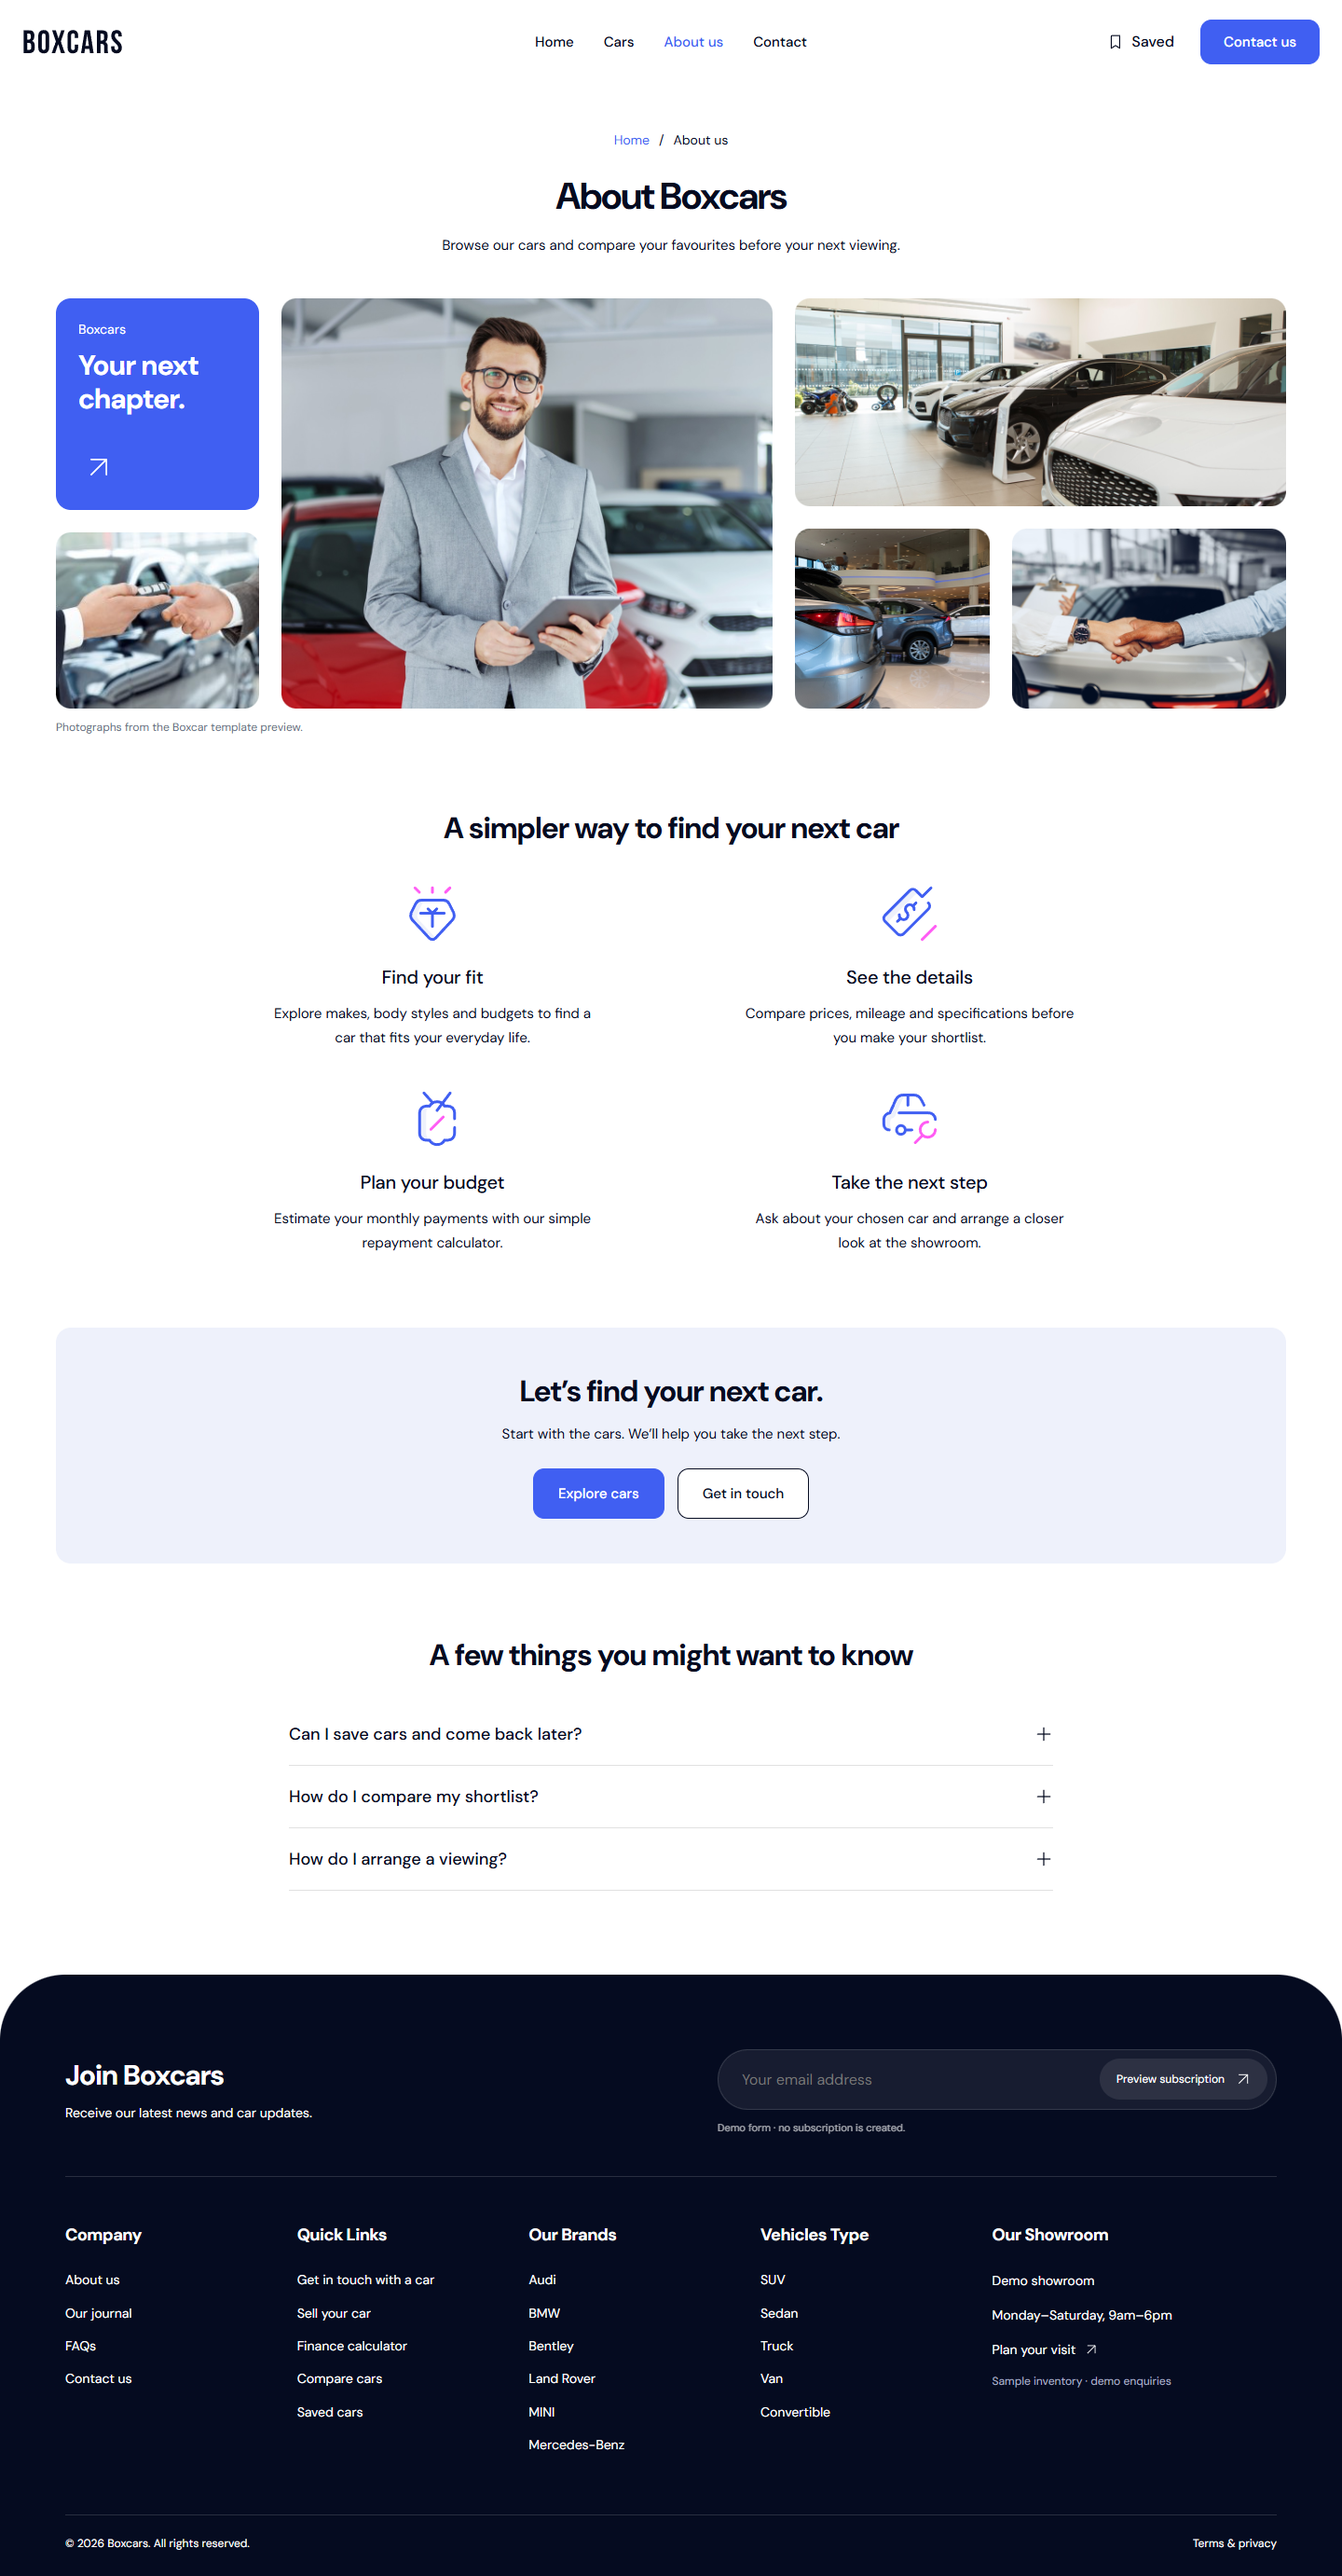
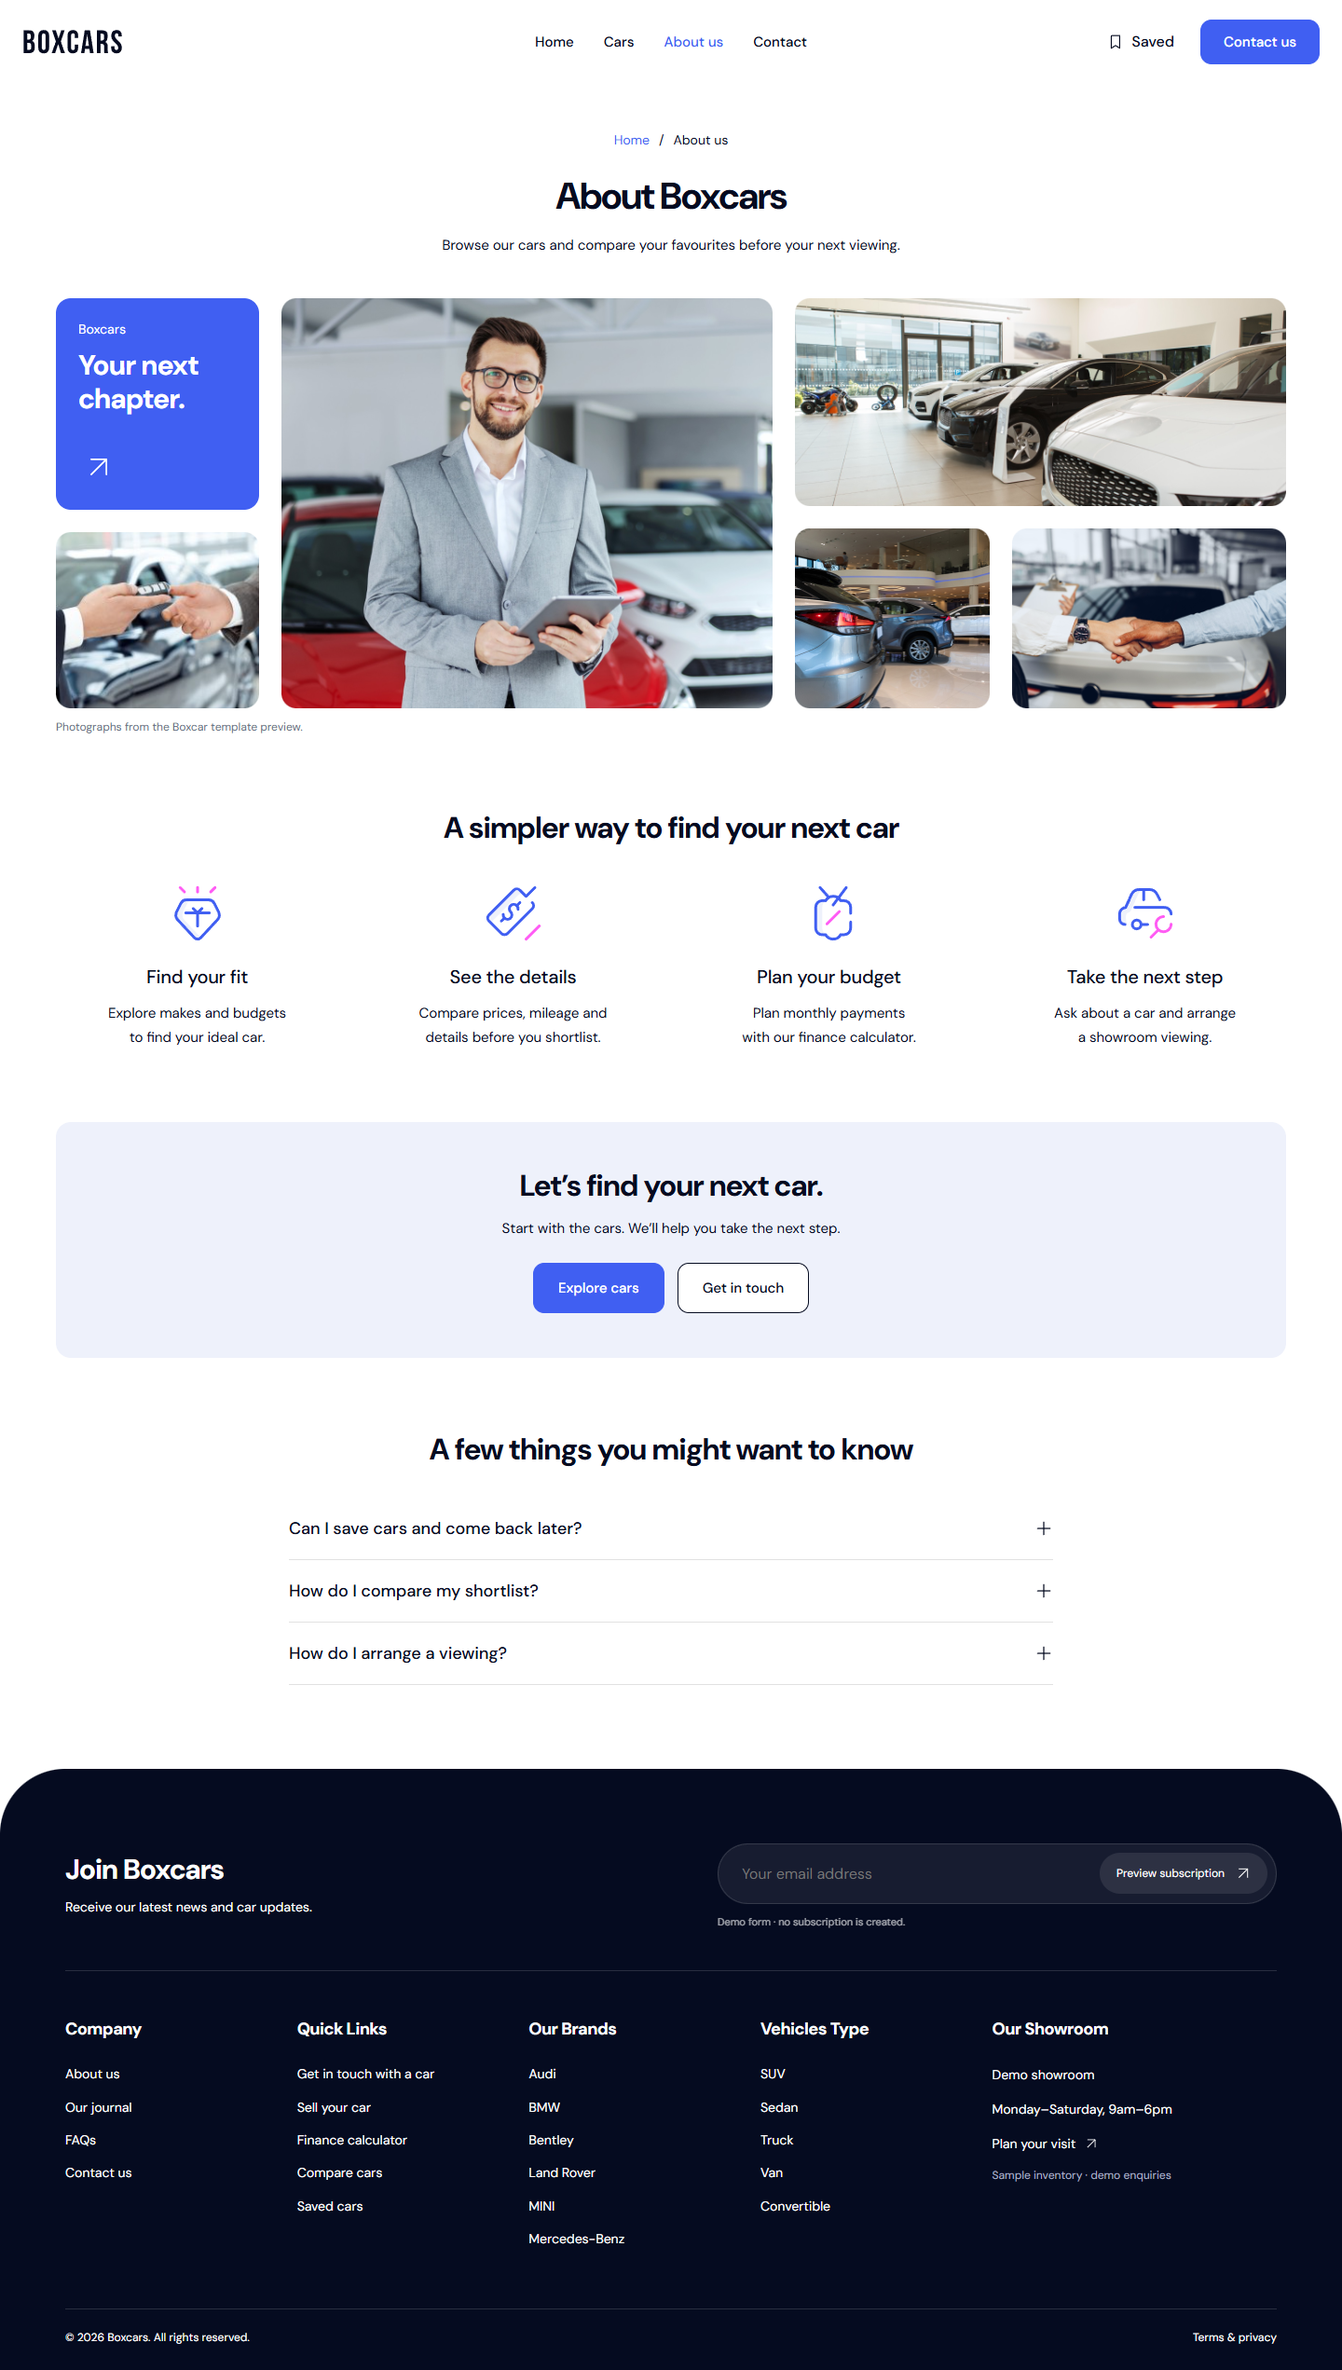
Restore four-across Boxcar benefits with two-line descriptions

diff --git a/templates/boxcar-updated/src/pages/About.svelte b/templates/boxcar-updated/src/pages/About.svelte
@@ -5,22 +5,22 @@
     [
       "choice",
       "Find your fit",
-      "Explore makes, body styles and budgets to find a car that fits your everyday life.",
+      "Explore makes and budgets to find your ideal car.",
     ],
     [
       "pricing",
       "See the details",
-      "Compare prices, mileage and specifications before you make your shortlist.",
+      "Compare prices, mileage and details before you shortlist.",
     ],
     [
       "finance",
       "Plan your budget",
-      "Estimate your monthly payments with our simple repayment calculator.",
+      "Plan monthly payments with our finance calculator.",
     ],
     [
       "care",
       "Take the next step",
-      "Ask about your chosen car and arrange a closer look at the showroom.",
+      "Ask about a car and arrange a showroom viewing.",
     ],
   ];
   const questions = [

diff --git a/templates/boxcar-updated/src/inner-pages.css b/templates/boxcar-updated/src/inner-pages.css
@@ -184,9 +184,8 @@
 }
 .bc-benefit-grid {
   display: grid;
-  grid-template-columns: repeat(2, minmax(0, 1fr));
-  gap: 44px 64px;
-  max-width: 960px;
+  grid-template-columns: repeat(4, minmax(0, 1fr));
+  gap: 36px;
   margin-inline: auto;
 }
 .bc-benefit-grid .inner-box {
@@ -211,8 +210,9 @@
   line-height: 28px;
 }
 .bc-benefit-grid p {
-  max-width: 360px;
+  max-width: 280px;
   margin: 0 auto;
+  text-wrap: balance;
 }
 .bc-about-cta {
   background: #eef1fb;

diff --git a/docs/boxcar-updated/QA.md b/docs/boxcar-updated/QA.md
@@ -4,12 +4,12 @@ Candidate: `L:/CODEX/cars/templates/boxcar-updated` on Cars `main`, Node 22.23.2
 
 ## About, Contact and Cars correction
 
-The latest benefit/contact refinement puts the four benefits in two centered rows on desktop and tablet, with aligned descriptions and two lines per description at 1440 px. Phones retain one readable column. Contact now supports a verified dealer map and directions above the form, plus phone/email actions and labelled social links using the source brand-icon font. Unconfigured map, phone and social entries are hidden in the generic candidate; the About CTA remains the short route to Contact.
+The latest correction restores four benefits in one desktop row. The requested two rows refer to the description text: concise copy and balanced wrapping keep every description to two natural lines, without clipping. Tablets retain two columns and phones one column. Six focused widths (1440, 1280, 1024, 768, 390 and 320 px) pass in Chrome and Playwright WebKit, checking columns, text lines, alignment, page bounds and image loading. Svelte/TypeScript passes with zero errors and warnings; the production build passes with 158 modules.
 
-Svelte/TypeScript passes with zero errors and warnings; the production build passes with 158 modules. Eleven focused layouts and six contact journeys pass per engine in Chrome and Playwright WebKit: benefits at 1440, 1024, 768, 390 and 320 px, and default/configured Contact at 1440, 390 and 320 px. The configured branch uses an isolated browser-only dealer fixture and local iframe response, verifying dimensions, directions and contact destinations, source icon loading and social link labels. It does not establish a real dealer location/profile or third-party map availability. Required fields and truthful local enquiry previews still pass; no browser errors or message requests were recorded.
+The earlier benefit/contact refinement added support for a verified dealer map and directions above the form, phone/email actions and labelled social links using the source brand-icon font. Unconfigured map, phone and social entries are hidden in the generic candidate; the About CTA remains the short route to Contact. Its eleven focused layouts and six contact journeys passed per engine in Chrome and Playwright WebKit, with separate timestamps in the results below. The configured branch used an isolated browser-only dealer fixture and local iframe response, verifying dimensions, directions and contact destinations, source icon loading and social link labels. It does not establish a real dealer location/profile or third-party map availability. Required fields and truthful local enquiry previews passed; no browser errors or message requests were recorded. Contact was not changed or retested for the subsequent text correction.
 
-- [Two-row desktop benefits](about-benefits.png), [phone benefits](about-benefits-320.png)
-- [Dated focused results](inner-results.json) include this run separately from the earlier checks below.
+- [Four benefits with two-line descriptions](about-benefits.png), [phone benefits](about-benefits-320.png)
+- [Dated focused results](inner-results.json) include the text correction separately from the earlier checks below.
 
 About and Contact now adapt the original [About HTML page](https://creativelayers.net/themes/boxcar-html/about.html) and [Contact HTML page](https://creativelayers.net/themes/boxcar-html/contact.html). About uses the five-image gallery, original blue/pink illustrated benefits, one centered page title with a short introduction, browsing/contact actions and native FAQ details. Contact uses the source's outlined form boxes and bordered contact column, with a showroom photo replacing the unrelated source map. All three routes share the existing header and the source DM Sans face. Scoped styles preserve the ten captured homepages. Dealer copy replaces lorem ipsum and invented statistics/reviews; forms remain truthful local previews.
 

diff --git a/templates/boxcar-updated/TEMPLATE.md b/templates/boxcar-updated/TEMPLATE.md
@@ -12,7 +12,7 @@ The ten homepages preserve the original DOM structure, whitespace, section copy,
 
 The ten original **HTML** homes remain separate design references. The existing `templates/boxcar` WordPress capture remains its own template. About uses one centered page title and a short introduction above the original five-image gallery and illustrated benefits; Contact adapts its title, form boxes and bordered contact column. Five original About photographs and four original SVG illustrations are local assets. These pages use scoped source-derived layout rules and dealer copy; they do not reproduce the source's invented statistics, staff identities or reviews. Contact uses a showroom photograph instead of the unrelated source map. Inventory keeps its working Svelte filters, with source card typography, the original specification icon font, proper grid/list icons and larger detail arrows. Vehicle details and the remaining supporting bodies keep their existing adapted layouts. WordPress plugins, accounts and backend services are outside this candidate.
 
-About's four benefits use a centered two-column, two-row grid on desktop/tablet. Each desktop description takes two lines; phones use a single column with the original illustrations alongside the text. The About contact CTA opens the dedicated Contact page.
+About's four benefits sit in one centered row on desktop, two columns on tablets and one column on phones. Concise, balanced descriptions wrap naturally to two lines at the checked 320–1440 px widths; text is not clamped. Phones keep the original illustrations alongside the text. The About contact CTA opens the dedicated Contact page.
 
 Contact is the home for the full map, directions, phone and social links. Personalize `src/data/brand.ts`: set `showroomMap` to `{ address, embedUrl, directionsUrl }` using the dealer's verified address and provider iframe/directions URLs; set `phone` and the actual `contactEmail`; populate `socialLinks` with `{ platform, url }` entries. Supported platforms are Facebook, Instagram, YouTube, TikTok and LinkedIn, using the original local Boxcar brand-icon font and visible labels. The map replaces the sample showroom photograph. Empty map/phone/social fields stay hidden, and the example email is not a mail link. This generic candidate has no verified address or social profiles; no donor business location or placeholder social destination is presented as a real dealer connection.
 
